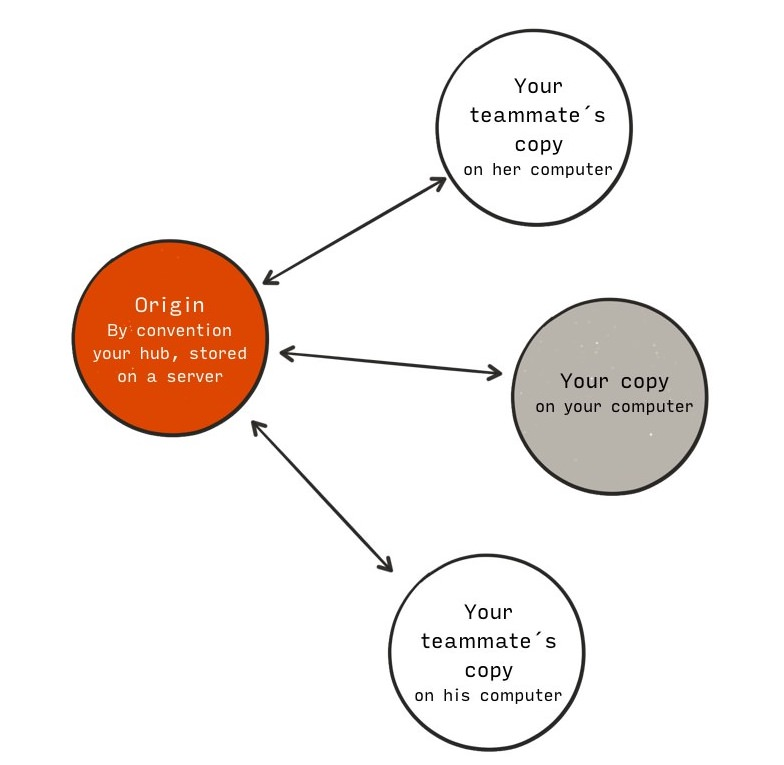
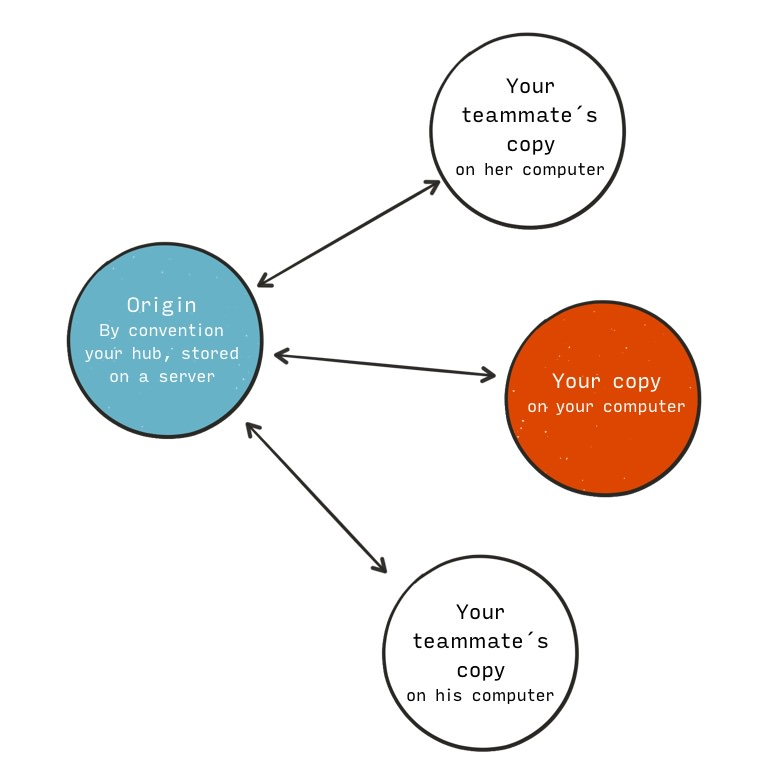
Add git big picture and change color in git hub image

diff --git a/_posts/blog/2016-04-07-pocket-git-guide.md b/_posts/blog/2016-04-07-pocket-git-guide.md
@@ -365,7 +365,7 @@ Another way to use ```git checkout``` is to use it for files.
 git checkout <pathspec>
 ```
 
-Will bring the file which is described by ```<pathspec>``` from the head of your current branch back into your working directory. This is useful to revert changes you did on a file while keeping the the changes of other files you just modified in your working directory.
+will bring the file which is described by ```<pathspec>``` from the head of your current branch back into your working directory. This is useful to revert changes you did on a file while keeping the the changes of other files you just modified in your working directory.
 
 Merge to include
 ---
@@ -560,6 +560,10 @@ git pull <remote> <remote-branch-name>
 ```
 
 Git will automatically merge the remote changes into your local branch. In case of a merge conflict, resolve the conflict marker in your local branch, stage and commit your change and push then to the remote.
+
+The big picture
+---
+![]({{site.url}}/i/blog/git_big_picture.jpg)
 
 References
 ---
